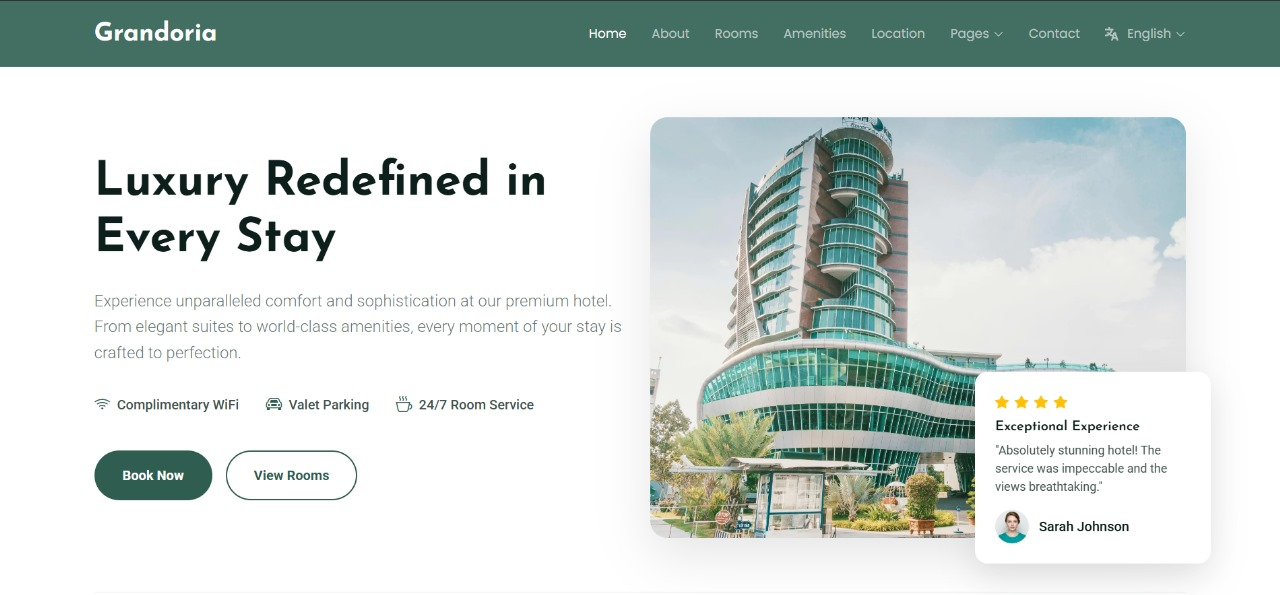
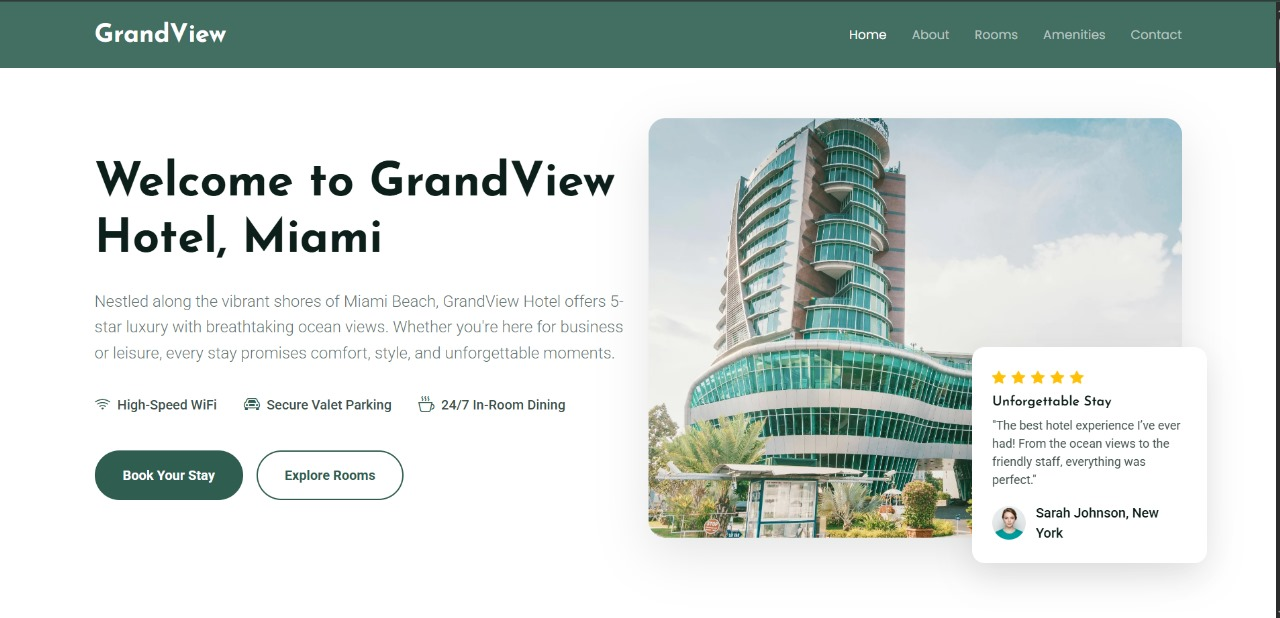
update portfolio items and links for GrandView Hotel and Lugano Café

diff --git a/index.html b/index.html
@@ -698,27 +698,7 @@
             </div>
           </div>
         </div>
-                <!-- cafe -->
-        <div class="col-lg-4 col-md-6 portfolio-item isotope-item filter-hospitality">
-          <div class="portfolio-card">
-            <div class="portfolio-img">
-              <img src="assets/img/projects/p6.jpg" alt="Portfolio Item" class="img-fluid">
-              <div class="portfolio-overlay">
-                <a href="assets/img/projects/p6.jpg" class="glightbox portfolio-lightbox"><i class="bi bi-plus"></i></a>
-                <a href="#" class="portfolio-details-link"><i class="bi bi-link"></i></a>
-              </div>
-            </div>
-            <div class="portfolio-info">
-              <h4>Cafe & restaurant Site</h4>
-              <p style="color: rgba(240, 248, 255, 0.49);">
-Savor the Moment, One Bite at a Time .. Discover a journey of flavors at our exquisite restaurant. Immerse yourself in a delightful dining experience crafted with passion and precision.              </p>
-              <div class="portfolio-tags">
-                <span>Consulting</span>
-                <span>Business Growth</span>
-              </div>
-            </div>
-          </div>
-        </div>
+
         
 
 
@@ -753,22 +733,41 @@ Savor the Moment, One Bite at a Time .. Discover a journey of flavors at our exq
               <img src="assets/img/projects/p4.jpg" alt="Portfolio Item" class="img-fluid">
               <div class="portfolio-overlay">
                 <a href="assets/img/projects/p4.jpg" class="glightbox portfolio-lightbox"><i class="bi bi-plus"></i></a>
-                <a href="https://passion-chi.vercel.app/#hero" class="portfolio-details-link"><i class="bi bi-link"></i></a>
+                <a href="https://grand-view.vercel.app/index.html" class="portfolio-details-link"><i class="bi bi-link"></i></a>
               </div>
             </div>
             <div class="portfolio-info">
-              <h4>Luxury Redefined in Every Stay</h4>
+              <h4>GrandView Hotel – Miami Beach</h4>
               <p style="color: rgba(240, 248, 255, 0.49);">
-                Our premium hotel brand offers guests an unforgettable experience, blending modern elegance with world-class comfort. From stylish suites to exceptional amenities and personalized service, every detail is designed to create the perfect balance of relaxation and sophistication.
+        A modern and responsive hotel website with a smooth booking experience. Built to showcase rooms, services, and the unique hospitality of GrandView in Miami Beach.
               </p>
               <div class="portfolio-tags">
                 <span>Hospitality</span>
-                <span>Luxury</span>
+                <span>Hotel</span>
               </div>
             </div>
           </div>
         </div>
-
+        <!-- cafe -->
+        <div class="col-lg-4 col-md-6 portfolio-item isotope-item filter-hospitality">
+          <div class="portfolio-card">
+            <div class="portfolio-img">
+              <img src="assets/img/projects/p6.jpg" alt="Portfolio Item" class="img-fluid">
+              <div class="portfolio-overlay">
+                <a href="assets/img/projects/p6.jpg" class="glightbox portfolio-lightbox"><i class="bi bi-plus"></i></a>
+                <a href="#" class="portfolio-details-link"><i class="bi bi-link"></i></a>
+              </div>
+            </div>
+            <div class="portfolio-info">
+              <h4>Lugano Café – Menoufia</h4>
+              <p style="color: rgba(240, 248, 255, 0.49);">
+A stylish and responsive café website designed to highlight the elegant ambiance, signature desserts, and premium beverages of Lugano Café. Features dedicated sections for PlayStation lounge, VIP study/work corner, and family area to enhance the guest experience.              <div class="portfolio-tags">
+                <span>Consulting</span>
+                <span>Business Growth</span>
+              </div>
+            </div>
+          </div>
+        </div>
 
       </div><!-- End isotope-container -->
 
